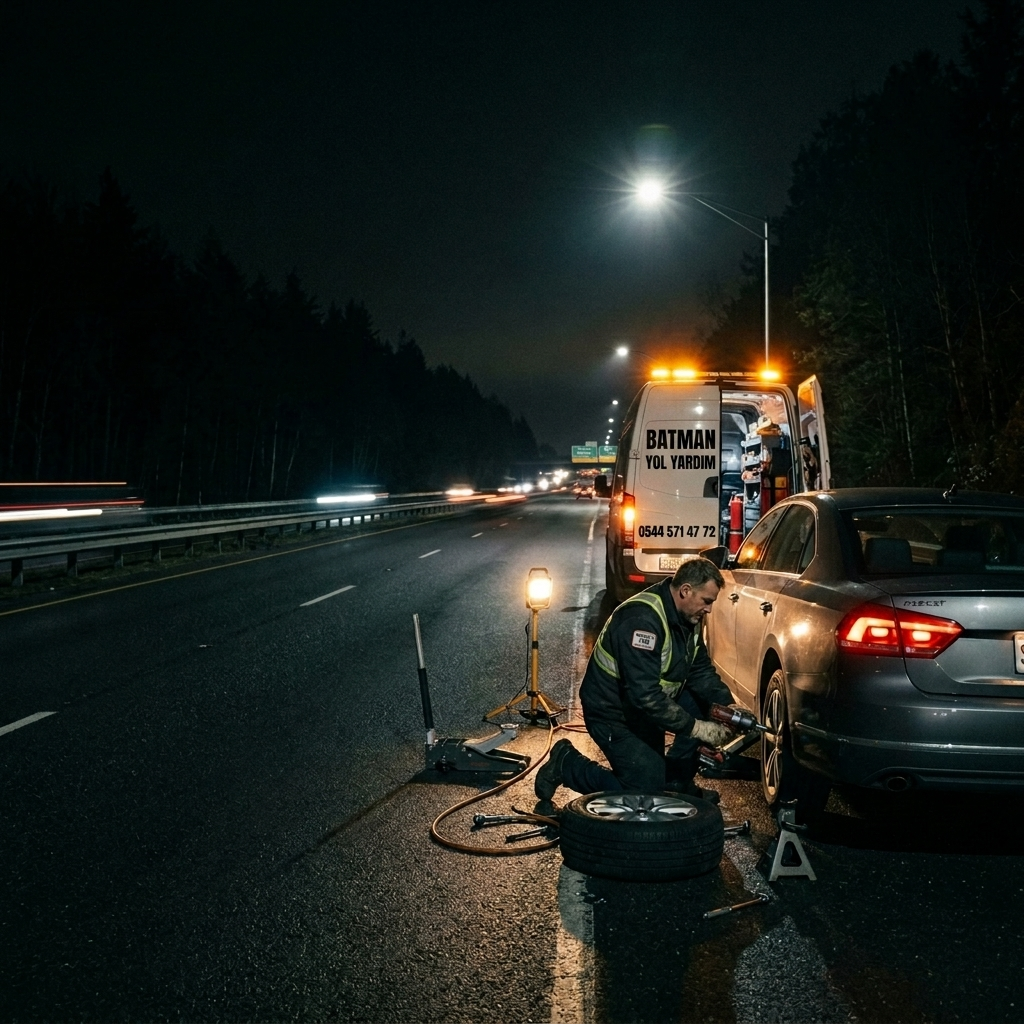
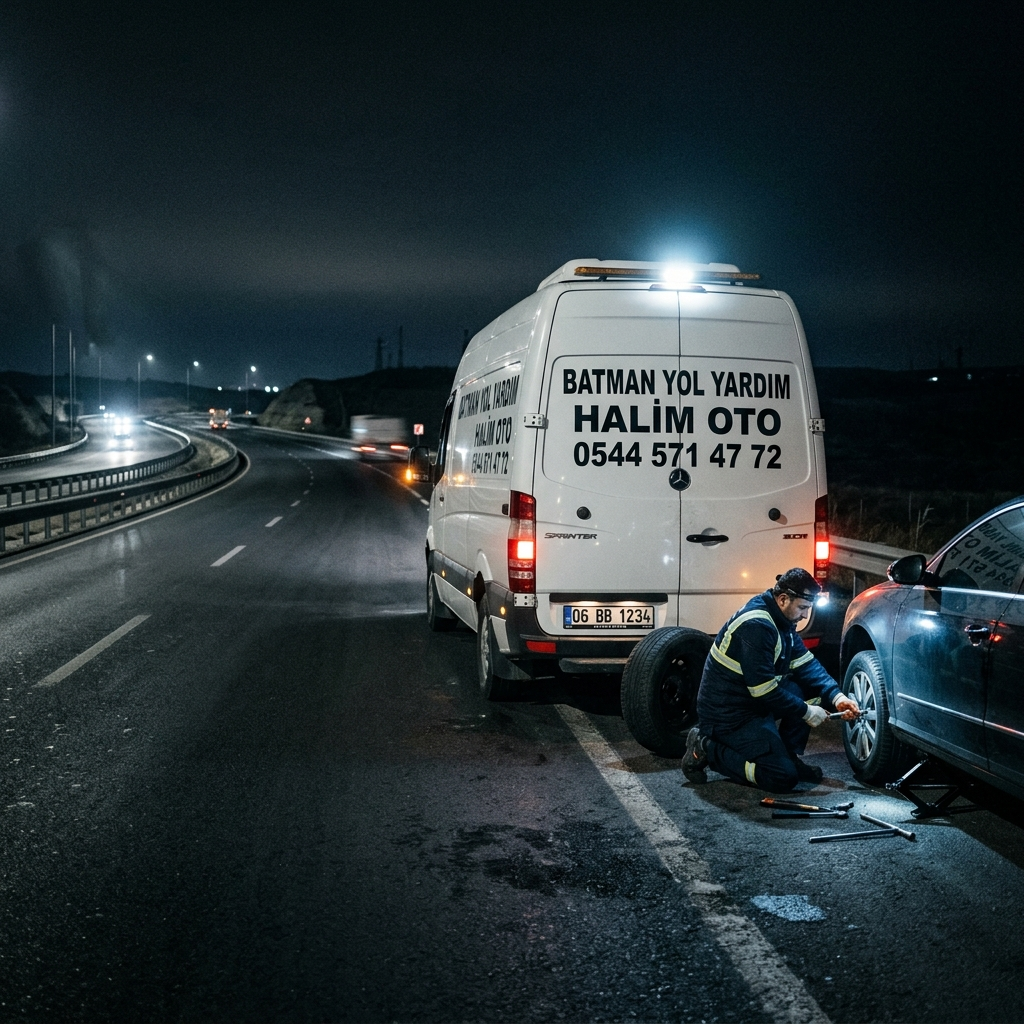
feat: Arka plan görseli kapıları kapalı minibüs ile değiştirildi

diff --git a/index.html b/index.html
@@ -11,7 +11,7 @@
   <link rel="preconnect" href="https://fonts.gstatic.com" crossorigin />
   <link href="https://fonts.googleapis.com/css2?family=Outfit:wght@300;400;500;600;700;800;900&display=swap"
     rel="stylesheet" />
-  <link rel="stylesheet" href="style.css?v=3" />
+  <link rel="stylesheet" href="style.css?v=4" />
 </head>
 
 <body>

diff --git a/style.css b/style.css
@@ -333,7 +333,7 @@ ul {
 .hero-bg-wrap {
   position: absolute;
   inset: 0;
-  background-image: url('hero_bg.png?v=3');
+  background-image: url('hero_bg.png?v=4');
   background-size: cover;
   background-position: center;
 }
